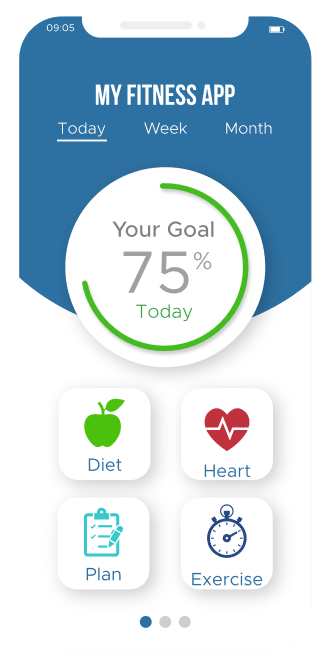
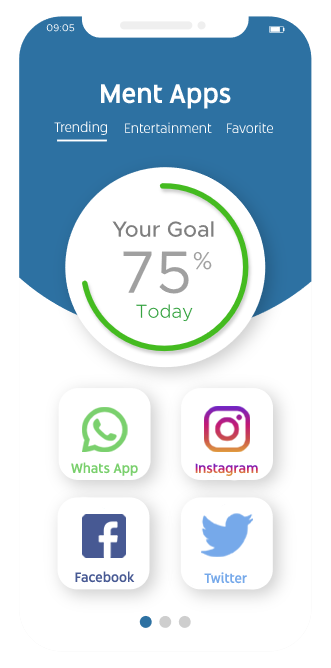
Test

diff --git a/index.html b/index.html
@@ -26,12 +26,6 @@
   <!-- Template Main CSS File -->
   <link href="assets/css/style.css" rel="stylesheet">
 
-  <!-- =======================================================
-  * Template Name: SoftLand - v4.10.0
-  * Template URL: https://bootstrapmade.com/softland-bootstrap-app-landing-page-template/
-  * Author: BootstrapMade.com
-  * License: https://bootstrapmade.com/license/
-  ======================================================== -->
 </head>
 
 <body>
@@ -42,38 +36,7 @@
 
       <div class="logo">
         <h1><a href="index.html">Ment</a></h1>
-        <!-- Uncomment below if you prefer to use an image logo -->
-        <!-- <a href="index.html"><img src="assets/img/logo.png" alt="" class="img-fluid"></a>-->
       </div>
-
-      <!--<nav id="navbar" class="navbar">
-         <ul>
-          <li><a class="active " href="index.html">Home</a></li>
-          <li><a href="features.html">Features</a></li>
-          <li><a href="pricing.html">Pricing</a></li>
-          <li><a href="blog.html">Blog</a></li>
-          <li class="dropdown"><a href="#"><span>Drop Down</span> <i class="bi bi-chevron-down"></i></a>
-            <ul>
-              <li><a href="#">Drop Down 1</a></li>
-              <li class="dropdown"><a href="#"><span>Deep Drop Down</span> <i class="bi bi-chevron-right"></i></a>
-                <ul>
-                  <li><a href="#">Deep Drop Down 1</a></li>
-                  <li><a href="#">Deep Drop Down 2</a></li>
-                  <li><a href="#">Deep Drop Down 3</a></li>
-                  <li><a href="#">Deep Drop Down 4</a></li>
-                  <li><a href="#">Deep Drop Down 5</a></li>
-                </ul>
-              </li>
-              <li><a href="#">Drop Down 2</a></li>
-              <li><a href="#">Drop Down 3</a></li>
-              <li><a href="#">Drop Down 4</a></li>
-            </ul>
-          </li>
-          <li><a href="contact.html">Contact Us</a></li>
-        </ul> 
-        <i class="bi bi-list mobile-nav-toggle"></i>
-      </nav> .navbar --> 
-
     </div>
   </header><!-- End Header -->
 
@@ -98,13 +61,12 @@
           <div class="row">
             <div class="col-lg-8 text-center text-lg-start">
               <h1 data-aos="fade-right">Ment Mobile Application</h1>
-              <p class="mb-5" data-aos="fade-right" data-aos-delay="100">Lorem ipsum dolor sit amet, consectetur
-                adipisicing elit.</p>
+              <p class="mb-5" data-aos="fade-right" data-aos-delay="100">Entertainment Apps that Bring Fun and Engagement to Your Fingertips.</p>
               <p data-aos="fade-right" data-aos-delay="200" data-aos-offset="-500"><a href="#btn-Paystor"  class="btn btn-outline-white">Download</a></p>
             </div>
             <div class="col-lg-4 iphone-wrap">
               <img src="assets/img/phone_1.png" alt="Image" class="phone-1" data-aos="fade-right">
-              <img src="assets/img/phone_2.png" alt="Image" class="phone-2" data-aos="fade-right" data-aos-delay="200">
+              <img src="assets/img/phone_2.PNG" alt="Image" class="phone-2" data-aos="fade-right" data-aos-delay="200">
             </div>
           </div>
         </div>
@@ -132,7 +94,7 @@
                 <i class="bi bi-people"></i>
               </div>
               <h3 class="mb-3">1 Million Users</h3>
-              <p>Lorem ipsum dolor sit amet, consectetur adipisicing elit. Rem, optio.</p>
+              <p>We've reached 1 million users Join the community enjoying our top apps.</p>
             </div>
           </div>
           <div class="col-md-4" data-aos="fade-up" data-aos-delay="100">
@@ -141,7 +103,7 @@
                 <i class="bi bi-brightness-high"></i>
               </div>
               <h3 class="mb-3">Positive  Reviews</h3>
-              <p>Lorem ipsum dolor sit amet, consectetur adipisicing elit. Rem, optio.</p>
+              <p>Users rave about our apps Check out the positive reviews for yourself.</p>
             </div>
           </div>
           <div class="col-md-4" data-aos="fade-up" data-aos-delay="200">
@@ -164,30 +126,6 @@
             <img src="assets/img/mobile.svg" alt="Image" class="img-fluid">
           </div>
         </div>
-
-        <!-- <div class="row">
-          <div class="col-md-4">
-            <div class="step">
-              <span class="number">01</span>
-              <h3>Select your favorite stickers pack</h3>
-              <p>Pick a catchy name for your sticker pack to get started.</p>
-            </div>
-          </div>
-          <div class="col-md-4">
-            <div class="step">
-              <span class="number">02</span>
-              <h3>Create Profile</h3>
-              <p>Lorem ipsum dolor sit amet, consectetur adipisicing elit. Rem, optio.</p>
-            </div>
-          </div>
-          <div class="col-md-4">
-            <div class="step">
-              <span class="number">03</span>
-              <h3>Enjoy the app</h3>
-              <p>Lorem ipsum dolor sit amet, consectetur adipisicing elit. Rem, optio.</p>
-            </div>
-          </div>
-        </div> -->
       </div>
     </section>
     <section class="section">
@@ -211,10 +149,11 @@
         <div class="row align-items-center">
           <div class="col-md-4 ms-auto order-2">
             <h2 class="mb-4">Gather Feedback</h2>
-            <p class="mb-4">Lorem ipsum dolor sit amet, consectetur adipisicing elit. Tenetur at reprehenderit optio,
-              laudantium eius quod, eum maxime molestiae porro omnis. Dolores aspernatur delectus impedit incidunt
-              dolore mollitia esse natus beatae.</p>
-            <p><a href="#btn-Paystor" class="btn btn-primary">Download Now</a></p>
+            <p class="mb-5">
+              We value your feedback! Share your thoughts directly in our app to help us improve. Your insights guide our updates, 
+              ensuring our apps are not only user-friendly but also thoughtfully tailored to your unique needs and preferences
+            </p>
+            <p><a href="mailto:akstick2@gmail.com" class="btn btn-primary">Feedback</a></p>
           </div>
           <div class="col-md-6" data-aos="fade-right">
             <img src="assets/img/undraw_svg_3.svg" alt="Image" class="img-fluid">
@@ -315,7 +254,33 @@
 
                   </div>
                 </div><!-- End testimonial item -->
+                
+                <div class="swiper-slide">
+                  <div class="review text-center">
+                    <p class="stars">
+                      <span class="bi bi-star-fill"></span>
 
+                      <span class="bi bi-star-fill"></span>
+                      <span class="bi bi-star-fill"></span>
+                      <span class="bi bi-star-fill"></span>
+                      <span class="bi bi-star-fill muted"></span>
+                    </p>
+                    <h3>Excellent App!</h3>
+                    <blockquote>
+                      <p>Lorem ipsum dolor sit amet, consectetur adipisicing elit. Eius ea delectus pariatur, numquam
+                        aperiam dolore nam optio dolorem facilis itaque voluptatum recusandae deleniti minus animi,
+                        provident voluptates consectetur maiores quos.</p>
+                    </blockquote>
+
+                    <p class="review-user">
+                      <img src="assets/img/person_4.jpg" alt="Image" class="img-fluid rounded-circle mb-3">
+                      <span class="d-block">
+                        <span class="text-black">Aj Doe</span>, &mdash; App User
+                      </span>
+                    </p>
+
+                  </div>
+                </div><!-- End testimonial item -->
               </div>
               <div class="swiper-pagination"></div>
             </div>
@@ -327,16 +292,34 @@
     <!-- ======= CTA Section ======= -->
     <section class="section cta-section">
       <div class="container">
-        <div class="row align-items-center">
+        <div class="row align-items-center" data-aos="fade-up">
           <div class="col-md-6 me-auto text-center text-md-start mb-5 mb-md-0">
             <h2>Download now to get started!</h2>
           </div>
-          <div class="col-md-5 text-center text-md-end">
-            <p><a href="#" id="btn-Paystor" class="btn d-inline-flex align-items-center"><i class="bx bxl-play-store"></i><span>Google play</span></a></p>
+          <div class="col-md-6 text-center text-md-end">
+            <p><a href="https://play.google.com/store/apps/dev?id=5417775009886952000&hl=en" id="btn-Paystor" >
+                <img src="assets/img/pngwing.png" alt="Download" style="max-width: 300px; height: 300px;"></a>
+            </p>
           </div>
         </div>
       </div>
-    </section><!-- End CTA Section -->
+    </section>
+    
+    <!-- <section class="section cta-section">
+      <div class="container">
+        <div class="row align-items-center" data-aos="fade-up">
+          <div class="col-md-6 me-auto text-center text-md-start mb-5 mb-md-0" >
+            <h2>Download now to get started!</h2>
+          </div>
+          <div class="col-md-5 text-center text-md-end">
+           <p><a href="#" id="btn-Paystor" class="btn d-inline-flex align-items-center"><i class="bx bxl-play-store"></i><span>Google play</span></a></p>
+          </div>
+        </div>
+      </div>
+    </section> -->
+    
+    
+    <!-- End CTA Section -->
 
   </main><!-- End #main -->
 
@@ -347,107 +330,21 @@
         <div class="col-md-6 mb-5 mb-md-0" data-aos="fade-up">
           <h2>About Ment</h2>
           <br>
-          <p>Lorem ipsum dolor sit amet, consectetur adipisicing elit. Eius ea delectus pariatur, numquam aperiam
-            dolore nam optio dolorem facilis itaque voluptatum recusandae deleniti minus animi.</p>              
+          <p>At Ment, we specialize in crafting innovative and engaging mobile applications designed to enhance your entertainment experience.
+             Our apps are built with cutting-edge technology to offer seamless performance, intuitive user interfaces, and a range of interactive features.</p>              
         </div>
         <div class="col-md-4 ms-auto order-2" data-aos="fade-up">
           <h2 class="mb-4">Contact</h2>
-          <p>Et aut eum quis fuga eos sunt ipsa nihil. Labore corporis magni eligendi fuga maxime saepe commodi placeat.</p>
-          <p class="social">
-            <a href="#"><span class="bi bi-twitter"></span></a>
-            <a href="#"><span class="bi bi-envelope"></span></a>
+          <p>We’d love to hear from you! Whether you have questions, feedback, or need assistance, our team is here to help.</p>
+          <p class="social">            
+            <a href="mailto:akstick2@gmail.com"><span class="bi bi-envelope"></span></a>
             <a href="#"><span class="bi bi-instagram"></span></a>
             <a href="#"><span class="bi bi-linkedin"></span></a>
-          </p>       
-          <!-- <div class="copyright">
-            &copy; Copyright <strong><span>MyResume</span></strong>. All Rights Reserved
-          </div> -->
+            <a href="#"><span class="bi bi-twitter"></span></a>
+          </p>               
         </div>
       </footer>
-        <!-- <div class="col-md-7 ms-auto">
-          <div class="row site-section pt-0">
-           <div class="col-md-4 mb-4 mb-md-0">
-              <h3>Navigation</h3>
-              <ul class="list-unstyled">
-                <li><a href="#">Pricing</a></li>
-                <li><a href="#">Features</a></li>
-                <li><a href="#">Blog</a></li>
-                <li><a href="#">Contact</a></li>
-              </ul>
-            </div> -->
-            <!--<div class="row align-items-center">
-              <h3>Contact</h3>
-              <p>If you have any questions or suggestions about my Privacy Policy, do not hesitate to Contact Me.</p>
-               <ul class="list-unstyled">
-                <li><a href="#">Team</a></li>
-                <li><a href="#">Collaboration</a></li>
-                <li><a href="#">Todos</a></li>
-                <li><a href="#">Events</a></li>
-              </ul> 
-              
-            </div>-->
-            <!-- <div class="col-md-4 mb-4 mb-md-0">
-              <h3>Downloads</h3>
-              <ul class="list-unstyled">
-                <li><a href="#">Get from the App Store</a></li>
-                <li><a href="#">Get from the Play Store</a></li>
-              </ul>
-            </div>
-          </div>
-        </div>
-      </div> -->
-      <!-- <p>
-      <h2>Contact Form</h2>
-    </p>
-      <div class="col-md-6 mb-5 mb-md-0" data-aos="fade-up">
-        <form action="forms/contact.php" method="post" role="form" class="php-email-form">
-
-          <div class="row">
-            <div class="col-md-6 form-group">
-              <label for="name">Name</label>
-              <input type="text" name="name" class="form-control" id="name" required>
-            </div>
-            <div class="col-md-6 form-group mt-3 mt-md-0">
-              <label for="name">Email</label>
-              <input type="email" class="form-control" name="email" id="email" required>
-            </div>
-            <div class="col-md-12 form-group mt-3">
-              <label for="name">Subject</label>
-              <input type="text" class="form-control" name="subject" id="subject" required>
-            </div>
-            <div class="col-md-12 form-group mt-3">
-              <label for="name">Message</label>
-              <textarea class="form-control" name="message" required></textarea>
-            </div>
-
-            <div class="col-md-12 mb-3">
-              <div class="loading">Loading</div>
-              <div class="error-message"></div>
-              <div class="sent-message">Your message has been sent. Thank you!</div>
-            </div>
-
-            <div class="col-md-6 form-group">
-              <input type="submit" class="btn btn-primary d-block w-100" value="Send Message">
-            </div>
-          </div>
-
-        </form>
-      </div> -->
-      <!-- <div class="row justify-content-center text-center">
-        <div class="col-md-7">
-          <p class="copyright">&copy; Copyright SoftLand. All Rights Reserved</p>
-          <div class="credits">
-           
-            All the links in the footer should remain intact.
-            You can delete the links only if you purchased the pro version.
-            Licensing information: https://bootstrapmade.com/license/
-            Purchase the pro version with working PHP/AJAX contact form: https://bootstrapmade.com/buy/?theme=SoftLand
-         
-            Designed by <a href="https://bootstrapmade.com/">BootstrapMade</a>
-          </div>
-        </div>
-      </div> 
-    </div>-->
+        
   <a href="#" class="back-to-top d-flex align-items-center justify-content-center"><i class="bi bi-arrow-up-short"></i></a>
 
   <!-- Vendor JS Files -->

diff --git a/assets/css/style.css b/assets/css/style.css
@@ -1043,3 +1043,4 @@ section {
 .social a i {
   line-height: 0;
 }
+
